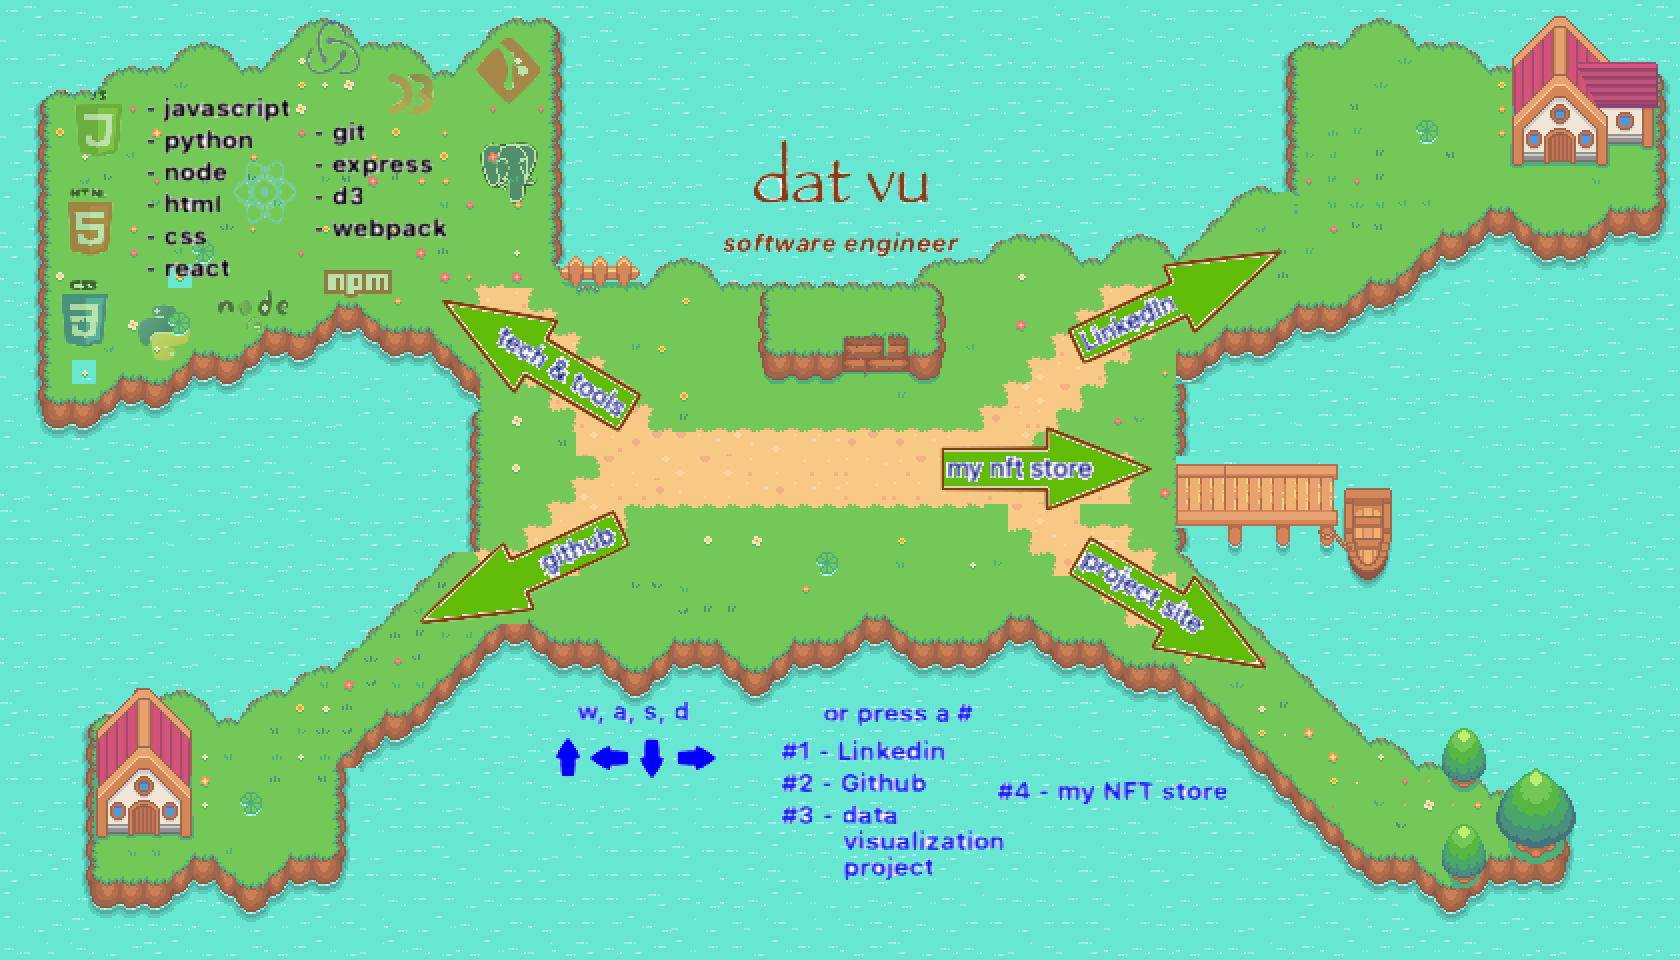
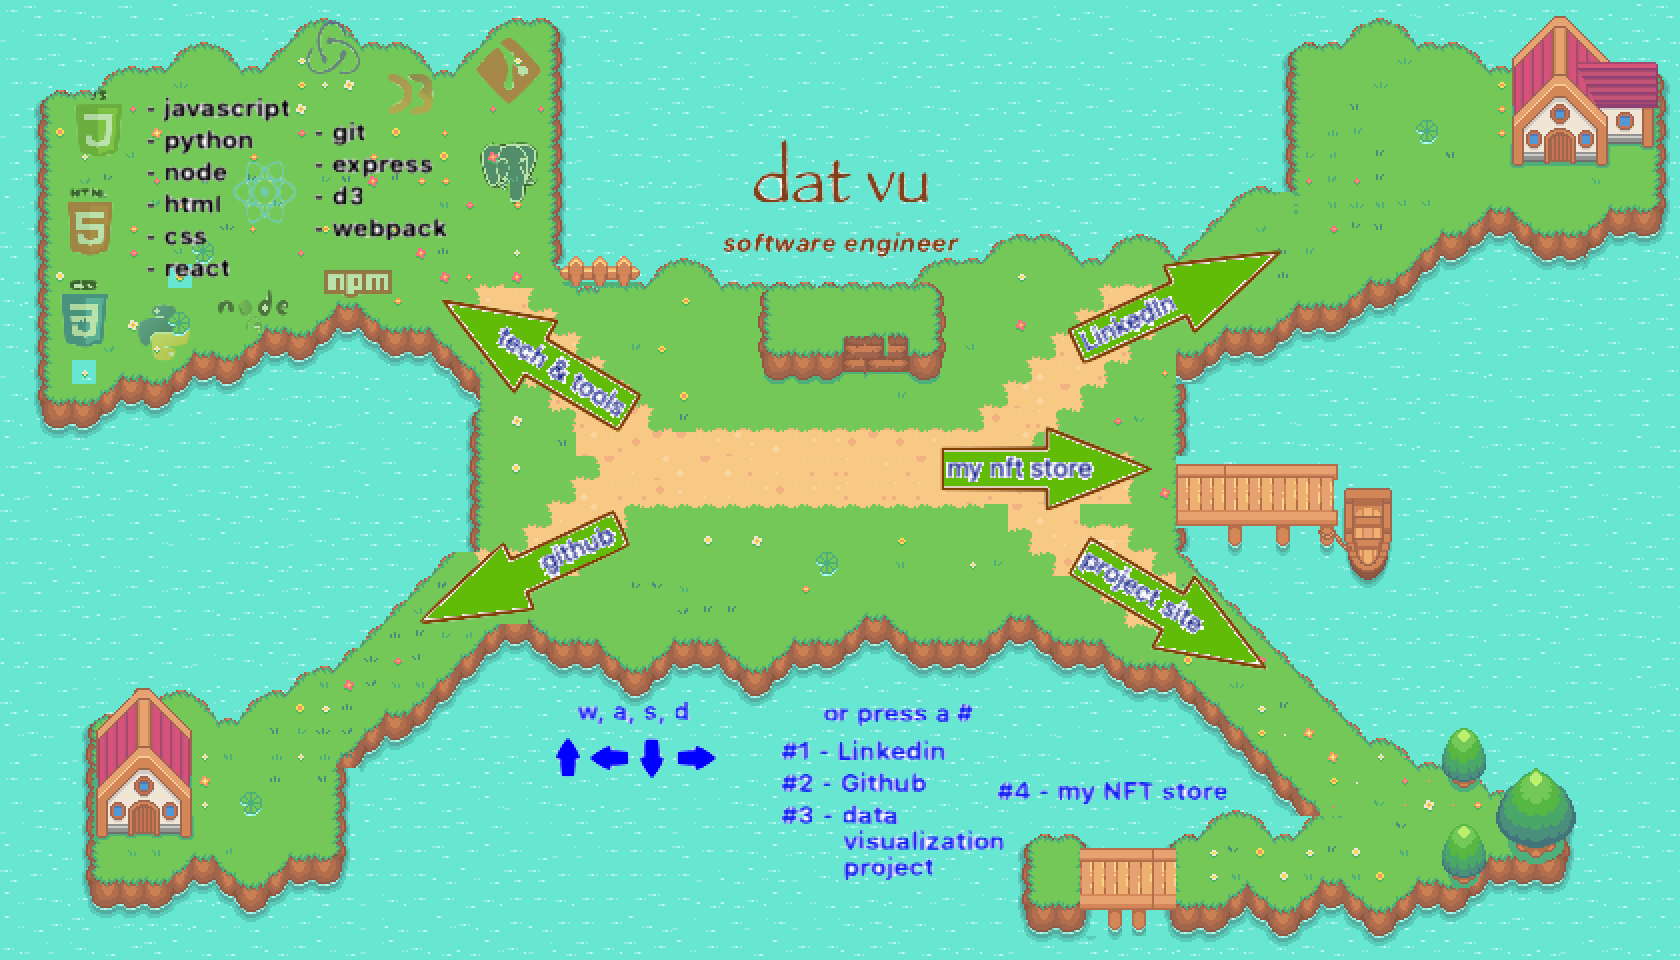
updated map layout/projlink

Changed region(s): [[0.5881, 0.8125, 0.8667, 1.0]]

diff --git a/data/npmceed.js b/data/npmceed.js
@@ -24,17 +24,17 @@ const npmceedData = [0, 0, 0, 0, 0, 0, 0, 0, 0, 0, 0, 0, 0, 0, 0, 0, 0, 0, 0, 0,
     0, 0, 0, 0, 0, 0, 0, 0, 0, 0, 0, 0, 0, 0, 0, 0, 0, 0, 0, 0, 0, 0, 0, 0, 0, 0, 0, 0, 0, 0, 0, 0, 0, 0, 0, 0, 0, 0, 0, 0, 0, 0, 0, 0, 0, 0, 0, 0, 0, 0, 0, 0, 0, 0, 0, 0, 0, 0, 0, 0, 0, 0, 0, 0, 0, 0, 0, 0, 0, 0,
     0, 0, 0, 0, 0, 0, 0, 0, 0, 0, 0, 0, 0, 0, 0, 0, 0, 0, 0, 0, 0, 0, 0, 0, 0, 0, 0, 0, 0, 0, 0, 0, 0, 0, 0, 0, 0, 0, 0, 0, 0, 0, 0, 0, 0, 0, 0, 0, 0, 0, 2952, 0, 0, 0, 0, 0, 0, 0, 0, 0, 0, 0, 0, 0, 0, 0, 0, 0, 0, 0,
     0, 0, 0, 0, 0, 0, 0, 0, 0, 0, 0, 0, 0, 0, 0, 0, 0, 0, 0, 0, 0, 0, 0, 0, 0, 0, 0, 0, 0, 0, 0, 0, 0, 0, 0, 0, 0, 0, 0, 0, 0, 0, 0, 0, 0, 0, 0, 0, 2952, 2952, 0, 0, 0, 0, 0, 0, 0, 0, 0, 0, 0, 0, 0, 0, 0, 0, 0, 0, 0, 0,
-    0, 0, 0, 0, 0, 0, 0, 0, 0, 0, 0, 0, 0, 0, 0, 0, 0, 0, 0, 0, 0, 0, 0, 0, 0, 0, 0, 0, 0, 0, 0, 0, 0, 0, 0, 0, 0, 0, 0, 0, 0, 0, 0, 0, 0, 0, 0, 0, 2952, 0, 0, 0, 0, 0, 0, 0, 0, 0, 0, 0, 0, 0, 0, 0, 0, 0, 0, 0, 0, 0,
-    0, 0, 0, 0, 0, 0, 0, 0, 0, 0, 0, 0, 0, 0, 0, 0, 0, 0, 0, 0, 0, 0, 0, 0, 0, 0, 0, 0, 0, 0, 0, 0, 0, 0, 0, 0, 0, 0, 0, 0, 0, 0, 0, 0, 0, 0, 0, 2952, 0, 0, 0, 0, 0, 0, 0, 0, 0, 0, 0, 0, 0, 0, 0, 0, 0, 0, 0, 0, 0, 0,
+    0, 0, 0, 0, 0, 0, 0, 0, 0, 0, 0, 0, 0, 0, 0, 0, 0, 0, 0, 0, 0, 0, 0, 0, 0, 0, 0, 0, 0, 0, 0, 0, 0, 0, 0, 0, 0, 0, 0, 0, 0, 0, 0, 0, 0, 0, 2952, 0, 2952, 0, 0, 0, 0, 0, 0, 0, 0, 0, 0, 0, 0, 0, 0, 0, 0, 0, 0, 0, 0, 0,
+    0, 0, 0, 0, 0, 0, 0, 0, 0, 0, 0, 0, 0, 0, 0, 0, 0, 0, 0, 0, 0, 0, 0, 0, 0, 0, 0, 0, 0, 0, 0, 0, 0, 0, 0, 0, 0, 0, 0, 0, 0, 0, 0, 0, 0, 0, 0, 2952, 0, 0, 0, 2952, 0, 0, 0, 0, 0, 0, 0, 0, 0, 0, 0, 0, 0, 0, 0, 0, 0, 0,
+    0, 0, 0, 0, 0, 0, 0, 0, 0, 0, 0, 0, 0, 0, 0, 0, 0, 0, 0, 0, 0, 0, 0, 0, 0, 0, 0, 0, 0, 0, 0, 0, 0, 0, 0, 0, 0, 0, 0, 0, 0, 0, 0, 0, 0, 0, 0, 0, 0, 0, 0, 0, 0, 0, 0, 0, 0, 0, 0, 0, 0, 0, 0, 0, 0, 0, 0, 0, 0, 0,
+    0, 0, 0, 0, 0, 0, 0, 0, 0, 0, 0, 0, 0, 0, 0, 0, 0, 0, 0, 0, 0, 0, 0, 0, 0, 0, 0, 0, 0, 0, 0, 0, 0, 0, 0, 0, 0, 0, 0, 0, 0, 0, 0, 0, 0, 0, 0, 0, 0, 0, 0, 0, 0, 2952, 0, 0, 0, 0, 0, 0, 0, 0, 0, 0, 0, 0, 0, 0, 0, 0,
     0, 0, 0, 0, 0, 0, 0, 0, 0, 0, 0, 0, 0, 0, 0, 0, 0, 0, 0, 0, 0, 0, 0, 0, 0, 0, 0, 0, 0, 0, 0, 0, 0, 0, 0, 0, 0, 0, 0, 0, 0, 0, 0, 0, 0, 0, 0, 0, 0, 0, 0, 0, 0, 0, 0, 0, 0, 0, 0, 0, 0, 0, 0, 0, 0, 0, 0, 0, 0, 0,
     0, 0, 0, 0, 0, 0, 0, 0, 0, 0, 0, 0, 0, 0, 0, 0, 0, 0, 0, 0, 0, 0, 0, 0, 0, 0, 0, 0, 0, 0, 0, 0, 0, 0, 0, 0, 0, 0, 0, 0, 0, 0, 0, 0, 0, 0, 0, 0, 0, 0, 0, 0, 0, 0, 0, 0, 0, 0, 0, 0, 0, 0, 0, 0, 0, 0, 0, 0, 0, 0,
     0, 0, 0, 0, 0, 0, 0, 0, 0, 0, 0, 0, 0, 0, 0, 0, 0, 0, 0, 0, 0, 0, 0, 0, 0, 0, 0, 0, 0, 0, 0, 0, 0, 0, 0, 0, 0, 0, 0, 0, 0, 0, 0, 0, 0, 0, 0, 0, 0, 0, 0, 0, 0, 0, 0, 0, 0, 0, 0, 0, 0, 0, 0, 0, 0, 0, 0, 0, 0, 0,
     0, 0, 0, 0, 0, 0, 0, 0, 0, 0, 0, 0, 0, 0, 0, 0, 0, 0, 0, 0, 0, 0, 0, 0, 0, 0, 0, 0, 0, 0, 0, 0, 0, 0, 0, 0, 0, 0, 0, 0, 0, 0, 0, 0, 0, 0, 0, 0, 0, 0, 0, 0, 0, 0, 0, 0, 0, 0, 0, 0, 0, 0, 0, 0, 0, 0, 0, 0, 0, 0,
     0, 0, 0, 0, 0, 0, 0, 0, 0, 0, 0, 0, 0, 0, 0, 0, 0, 0, 0, 0, 0, 0, 0, 0, 0, 0, 0, 0, 0, 0, 0, 0, 0, 0, 0, 0, 0, 0, 0, 0, 0, 0, 0, 0, 0, 0, 0, 0, 0, 0, 0, 0, 0, 0, 0, 0, 0, 0, 0, 0, 0, 0, 0, 0, 0, 0, 0, 0, 0, 0,
     0, 0, 0, 0, 0, 0, 0, 0, 0, 0, 0, 0, 0, 0, 0, 0, 0, 0, 0, 0, 0, 0, 0, 0, 0, 0, 0, 0, 0, 0, 0, 0, 0, 0, 0, 0, 0, 0, 0, 0, 0, 0, 0, 0, 0, 0, 0, 0, 0, 0, 0, 0, 0, 0, 0, 0, 0, 0, 0, 0, 0, 0, 0, 0, 0, 0, 0, 0, 0, 0,
-    0, 0, 0, 0, 0, 0, 0, 0, 0, 0, 0, 0, 0, 0, 0, 0, 0, 0, 0, 0, 0, 0, 0, 0, 0, 0, 0, 0, 0, 0, 0, 0, 0, 0, 0, 0, 0, 0, 0, 0, 0, 0, 0, 0, 0, 0, 0, 0, 0, 0, 0, 0, 0, 0, 0, 0, 0, 0, 0, 0, 0, 0, 0, 0, 0, 0, 0, 0, 0, 0,
-    0, 0, 0, 0, 0, 0, 0, 0, 0, 0, 0, 0, 0, 0, 0, 0, 0, 0, 0, 0, 0, 0, 0, 0, 0, 0, 0, 0, 0, 0, 0, 0, 0, 0, 0, 0, 0, 0, 0, 0, 0, 0, 0, 0, 0, 0, 0, 0, 0, 0, 0, 0, 0, 0, 0, 0, 0, 0, 0, 0, 0, 0, 0, 0, 0, 0, 0, 0, 0, 0,
-    0, 0, 0, 0, 0, 0, 0, 0, 0, 0, 0, 0, 0, 0, 0, 0, 0, 0, 0, 0, 0, 0, 0, 0, 0, 0, 0, 0, 0, 0, 0, 0, 0, 0, 0, 0, 0, 0, 0, 0, 0, 0, 0, 0, 0, 0, 0, 0, 0, 0, 0, 0, 0, 0, 0, 0, 0, 0, 0, 0, 0, 0, 0, 0, 0, 0, 0, 0, 0, 0,
+    0, 0, 0, 0, 0, 0, 0, 0, 0, 0, 0, 0, 0, 0, 0, 0, 0, 0, 0, 0, 0, 0, 0, 0, 0, 0, 0, 0, 0, 0, 0, 0, 0, 0, 0, 0, 0, 0, 0, 0, 0, 0, 0, 0, 0, 0, 0, 0, 0, 0, 0, 2952, 0, 0, 0, 0, 0, 0, 0, 0, 0, 0, 0, 0, 0, 0, 0, 0, 0, 0,
     0, 0, 0, 0, 0, 0, 0, 0, 0, 0, 0, 0, 0, 0, 0, 0, 0, 0, 0, 0, 0, 0, 0, 0, 0, 0, 0, 0, 0, 0, 0, 0, 0, 0, 0, 0, 0, 0, 0, 0, 0, 0, 0, 0, 0, 0, 0, 0, 0, 0, 0, 0, 0, 0, 0, 0, 0, 0, 0, 0, 0, 0, 0, 0, 0, 0, 0, 0, 0, 0,
     0, 0, 0, 0, 0, 0, 0, 0, 0, 0, 0, 0, 0, 0, 0, 0, 0, 0, 0, 0, 0, 0, 0, 0, 0, 0, 0, 0, 0, 0, 0, 0, 0, 0, 0, 0, 0, 0, 0, 0, 0, 0, 0, 0, 0, 0, 0, 0, 0, 0, 0, 0, 0, 0, 0, 0, 0, 0, 0, 0, 0, 0, 0, 0, 0, 0, 0, 0, 0, 0,
     0, 0, 0, 0, 0, 0, 0, 0, 0, 0, 0, 0, 0, 0, 0, 0, 0, 0, 0, 0, 0, 0, 0, 0, 0, 0, 0, 0, 0, 0, 0, 0, 0, 0, 0, 0, 0, 0, 0, 0, 0, 0, 0, 0, 0, 0, 0, 0, 0, 0, 0, 0, 0, 0, 0, 0, 0, 0, 0, 0, 0, 0, 0, 0, 0, 0, 0, 0, 0, 0]

diff --git a/data/collisions.js b/data/collisions.js
@@ -31,10 +31,10 @@ const collisions = [0, 0, 0, 0, 0, 0, 0, 0, 0, 0, 0, 0, 2952, 2952, 2952, 0, 0, 
     0, 0, 0, 0, 0, 0, 0, 2952, 0, 0, 0, 0, 0, 0, 0, 0, 2952, 2952, 0, 0, 0, 0, 0, 0, 0, 0, 0, 0, 0, 0, 0, 0, 0, 0, 0, 0, 0, 0, 0, 0, 0, 0, 0, 0, 0, 0, 0, 0, 0, 0, 2952, 2510, 0, 0, 0, 0, 0, 0, 2952, 0, 0, 0, 0, 0, 0, 0, 0, 0, 0, 0,
     0, 0, 0, 0, 0, 0, 0, 2952, 0, 0, 0, 0, 0, 0, 0, 2952, 0, 0, 0, 0, 0, 0, 0, 0, 0, 0, 0, 0, 0, 0, 0, 0, 0, 0, 0, 0, 0, 0, 0, 0, 0, 0, 0, 0, 0, 0, 0, 0, 0, 0, 0, 2952, 2510, 2510, 0, 0, 0, 0, 0, 2952, 0, 0, 0, 0, 0, 0, 0, 0, 0, 0,
     0, 0, 0, 0, 0, 0, 0, 2952, 0, 0, 0, 0, 0, 0, 2952, 0, 0, 0, 0, 0, 0, 0, 0, 0, 0, 0, 0, 0, 0, 0, 0, 0, 0, 0, 0, 0, 0, 0, 0, 0, 0, 0, 0, 0, 0, 0, 0, 0, 0, 0, 0, 0, 2952, 2510, 2510, 0, 0, 0, 0, 0, 2952, 2952, 0, 0, 0, 0, 0, 0, 0, 0,
-    0, 0, 0, 2952, 2952, 2952, 2952, 0, 0, 0, 0, 0, 0, 0, 2952, 0, 0, 0, 0, 0, 0, 0, 0, 0, 0, 0, 0, 0, 0, 0, 0, 0, 0, 0, 0, 0, 0, 0, 0, 0, 0, 0, 0, 0, 0, 0, 0, 0, 0, 0, 0, 0, 0, 2952, 2510, 0, 0, 0, 0, 0, 0, 0, 2952, 0, 0, 0, 0, 0, 0, 0,
-    0, 0, 0, 2952, 0, 0, 0, 0, 0, 0, 0, 0, 0, 0, 2952, 0, 0, 0, 0, 0, 0, 0, 0, 0, 0, 0, 0, 0, 0, 0, 0, 0, 0, 0, 0, 0, 0, 0, 0, 0, 0, 0, 0, 0, 0, 0, 0, 0, 0, 0, 0, 0, 0, 0, 2952, 2510, 0, 0, 0, 0, 0, 0, 0, 2952, 0, 0, 0, 0, 0, 0,
-    0, 0, 0, 2952, 0, 0, 0, 0, 0, 0, 0, 0, 0, 0, 2952, 0, 0, 0, 0, 0, 0, 0, 0, 0, 0, 0, 0, 0, 0, 0, 0, 0, 0, 0, 0, 0, 0, 0, 0, 0, 0, 0, 0, 0, 0, 0, 0, 0, 0, 0, 0, 0, 0, 0, 0, 2952, 2510, 0, 0, 0, 0, 2952, 2952, 2952, 0, 0, 0, 0, 0, 0,
-    0, 0, 0, 2952, 0, 0, 0, 0, 0, 0, 0, 2952, 2952, 2952, 0, 0, 0, 0, 0, 0, 0, 0, 0, 0, 0, 0, 0, 0, 0, 0, 0, 0, 0, 0, 0, 0, 0, 0, 0, 0, 0, 0, 0, 0, 0, 0, 0, 0, 0, 0, 0, 0, 0, 0, 0, 0, 2952, 2952, 2952, 2952, 2952, 2952, 0, 0, 0, 0, 0, 0, 0, 0,
-    0, 0, 0, 0, 2952, 2952, 2952, 2952, 0, 2952, 2952, 0, 0, 0, 0, 0, 0, 0, 0, 0, 0, 0, 0, 0, 0, 0, 0, 0, 0, 0, 0, 0, 0, 0, 0, 0, 0, 0, 0, 0, 0, 0, 0, 0, 0, 0, 0, 0, 0, 0, 0, 0, 0, 0, 0, 0, 0, 0, 0, 0, 0, 0, 0, 0, 0, 0, 0, 0, 0, 0,
-    0, 0, 0, 0, 0, 0, 0, 0, 0, 0, 0, 0, 0, 0, 0, 0, 0, 0, 0, 0, 0, 0, 0, 0, 0, 0, 0, 0, 0, 0, 0, 0, 0, 0, 0, 0, 0, 0, 0, 0, 0, 0, 0, 0, 0, 0, 0, 0, 0, 0, 0, 0, 0, 0, 0, 0, 0, 0, 0, 0, 0, 0, 0, 0, 0, 0, 0, 0, 0, 0,
+    0, 0, 0, 2952, 2952, 2952, 2952, 0, 0, 0, 0, 0, 0, 0, 2952, 0, 0, 0, 0, 0, 0, 0, 0, 0, 0, 0, 0, 0, 0, 0, 0, 0, 0, 0, 0, 0, 0, 0, 0, 0, 0, 0, 0, 0, 0, 0, 0, 0, 0, 2952, 2952, 2952, 2952, 2952, 2510, 0, 0, 0, 0, 0, 0, 0, 2952, 0, 0, 0, 0, 0, 0, 0,
+    0, 0, 0, 2952, 0, 0, 0, 0, 0, 0, 0, 0, 0, 0, 2952, 0, 0, 0, 0, 0, 0, 0, 0, 0, 0, 0, 0, 0, 0, 0, 0, 0, 0, 0, 0, 0, 0, 0, 0, 0, 0, 0, 2952, 2952, 2952, 2952, 2952, 2952, 2952, 0, 0, 0, 0, 0, 0, 2510, 0, 0, 0, 0, 0, 0, 0, 2952, 0, 0, 0, 0, 0, 0,
+    0, 0, 0, 2952, 0, 0, 0, 0, 0, 0, 0, 0, 0, 0, 2952, 0, 0, 0, 0, 0, 0, 0, 0, 0, 0, 0, 0, 0, 0, 0, 0, 0, 0, 0, 0, 0, 0, 0, 0, 0, 0, 0, 2952, 0, 0, 0, 0, 0, 0, 0, 0, 0, 0, 0, 0, 0, 2510, 0, 0, 0, 0, 2952, 2952, 2952, 0, 0, 0, 0, 0, 0,
+    0, 0, 0, 2952, 0, 0, 0, 0, 0, 0, 0, 2952, 2952, 2952, 0, 0, 0, 0, 0, 0, 0, 0, 0, 0, 0, 0, 0, 0, 0, 0, 0, 0, 0, 0, 0, 0, 0, 0, 0, 0, 0, 0, 2952, 0, 0, 0, 0, 0, 0, 0, 0, 0, 0, 0, 0, 0, 0, 0, 0, 0, 2952, 0, 0, 0, 0, 0, 0, 0, 0, 0,
+    0, 0, 0, 0, 2952, 2952, 2952, 2952, 0, 2952, 2952, 0, 0, 0, 0, 0, 0, 0, 0, 0, 0, 0, 0, 0, 0, 0, 0, 0, 0, 0, 0, 0, 0, 0, 0, 0, 0, 0, 0, 0, 0, 0, 2952, 0, 0, 0, 0, 0, 0, 0, 0, 0, 0, 0, 0, 0, 0, 0, 0, 2952, 0, 0, 0, 0, 0, 0, 0, 0, 0, 0,
+    0, 0, 0, 0, 0, 0, 0, 0, 0, 0, 0, 0, 0, 0, 0, 0, 0, 0, 0, 0, 0, 0, 0, 0, 0, 0, 0, 0, 0, 0, 0, 0, 0, 0, 0, 0, 0, 0, 0, 0, 0, 0, 2952, 2952, 2952, 2952, 2952, 2952, 2952, 2952, 2952, 2952, 2952, 2952, 2952, 0, 2952, 2952, 2952, 0, 0, 0, 0, 0, 0, 0, 0, 0, 0, 0,
     0, 0, 0, 0, 0, 0, 0, 0, 0, 0, 0, 0, 0, 0, 0, 0, 0, 0, 0, 0, 0, 0, 0, 0, 0, 0, 0, 0, 0, 0, 0, 0, 0, 0, 0, 0, 0, 0, 0, 0, 0, 0, 0, 0, 0, 0, 0, 0, 0, 0, 0, 0, 0, 0, 0, 0, 0, 0, 0, 0, 0, 0, 0, 0, 0, 0, 0, 0, 0, 0]
